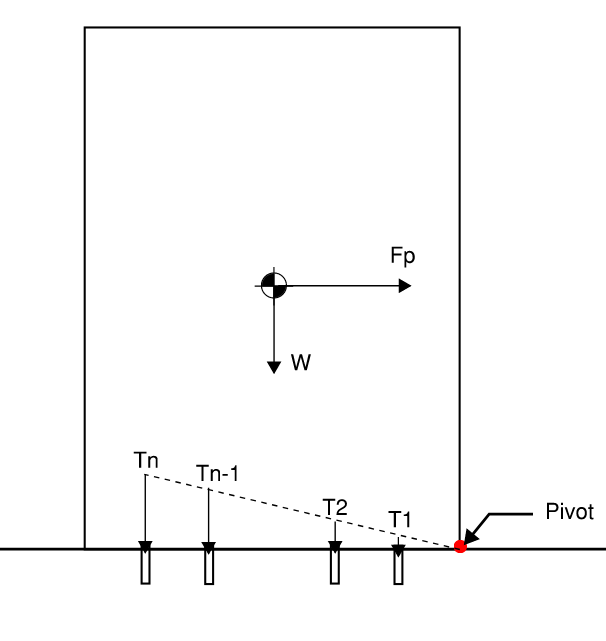
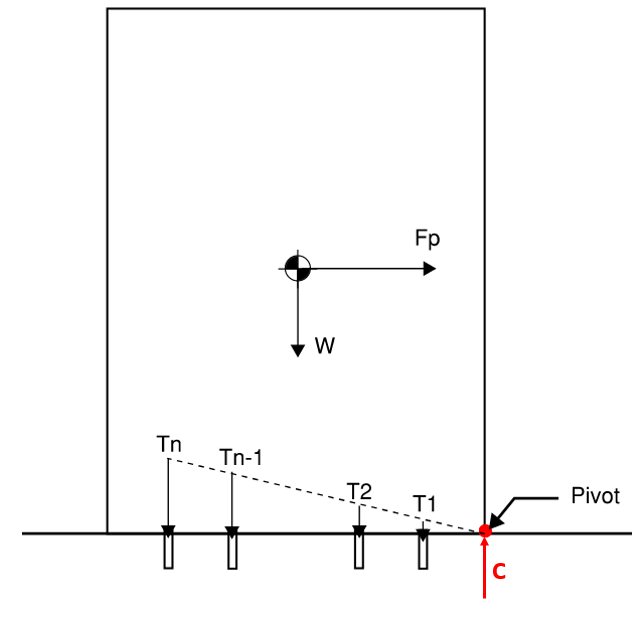
requirements + readme

Changed region(s): [[0.0, 0.0, 1.0, 0.9515], [0.4158, 0.3683, 0.7129, 0.5832]]

diff --git a/main_simple.py b/main_simple.py
@@ -16,6 +16,7 @@ fig = eza.plotter.preview(AHU4)
 # solve
 AHU4.solve(on_stilt=True)
 fig3 = eza.plotter.plot_equipment(AHU4)
+fig3.savefig("simple.png")
 
 # export data
 # AHU4.export_data()

diff --git a/README.md b/README.md
@@ -2,17 +2,13 @@
   <br>
   <img src="https://raw.githubusercontent.com/wcfrobert/ezanchor/master/docs/logo.png" alt="logo" style="zoom:80%;" />
   <br>
-  EZAnchor - Nonstructural Component Anchorage
+  Nonstructural Component Anchorage Calculation
   <br>
 </h1>
-
 <p align="center">
-Determine maximum anchor tension and shear demand for all possible equipment overturning orientations.
+Determine anchor tension and shear envelope curve for all overturning orientations.
 </p>
 
-<div align="center">
-  <img src="https://raw.githubusercontent.com/wcfrobert/ezanchor/master/docs/stilt.gif" alt="demogif1" style="width: 100%;" />
-</div>
 
 <div align="center">
   <img src="https://raw.githubusercontent.com/wcfrobert/ezanchor/master/docs/pivot.gif" alt="demogif2" style="width: 100%;" />
@@ -21,18 +17,14 @@ Determine maximum anchor tension and shear demand for all possible equipment ove
 
 
 
-
 ## Introduction
 
-EZAnchor is a Python applet that performs nonstructural components seismic force (Fp) calculations per ASCE 7-16 Chapter 13, it then applies Fp in all possible directions (all 360 degrees) to determine the maximum shear and tension demand in the anchor group holding the equipment in place.
+EZAnchor is a Python applet that performs nonstructural components seismic force (Fp) calculations per ASCE 7-16 Chapter 13, it then applies Fp in all possible directions (all 360 degrees) to determine the maximum shear and tension in the anchors holding the equipment in place.
 
-<img src="https://raw.githubusercontent.com/wcfrobert/ezanchor/master/docs/FBD1.png" alt="FBD1" style="zoom:50%;" />
+<img src="https://raw.githubusercontent.com/wcfrobert/ezanchor/master/docs/FBD_COMBINED.png" alt="FBD" style="width:90%;" /> 
 
 
-
-<img src="https://raw.githubusercontent.com/wcfrobert/ezanchor/master/docs/FBD2.png" alt="FBD2" style="zoom:50%;" />
-
-The technical background for equipment overturning calculation is quite simple. If you make some simplifying assumptions, you just need some statics and free-body diagrams. What makes EZAnchor special is that it doesn't make many simplifications. See "Theoretical Background" section for more info.
+The technical background for equipment overturning calculation is quite simple. In most cases, some basic statics and free-body diagrams will get you an answer that is good enough. What makes EZAnchor special is that it doesn't make many simplifying assumptions. See "Theoretical Background" section for more info.
 
 * Can evaluate equipment with arbitrary number and arrangement of anchors
 * Can evaluate equipment overturning in all possible orientations
@@ -41,18 +33,23 @@ The technical background for equipment overturning calculation is quite simple. 
 * Can quickly switch between "Pivot Mode" or "Stilt Mode"
 * Quick and easy-to-use
 
-The impetus for this package came from a lengthy technical discussion at work. I wanted to resolve two questions that's been stuck in my mind for the past few months:
+The impetus for this package came from a lengthy technical discussion at work. I wanted to resolve two questions that's been gnawing at me for months:
 
-* Should overturning be evaluated in all possible orientations? Is it even worth the effort?
-	- I don't think so, at least for most practical cases. Nevertheless, you can if you wish with EZAnchor. For simple cases, you really don't gain much insight with all that extra effort. However, there are cases where I think the additional rigor could be justified. For instance if: a.) equipment is on feet or b.) irregular equipment shape (like a L or T).
+* Should overturning be evaluated in all possible orientations? Is it worth the effort?
+	- I don't think so, at least for most practical cases. For simple cases, you really don't gain all that much insight with the additional effort. Plus It's difficult to conceptualize how a rectangular equipment can overturn about a corner (say at 26 degrees...). However, there are cases where I think the additional rigor can be justified. For instance if
+	  - equipment is on feet
+	  - irregular equipment shape (like a L or T)
+	  - large plan eccentricity between center of mass (of equipment), and center of resisitance (of anchors) which could result in large torsion and shear amplification
+	- With EZAnchor, this barrier is essentially removed and you can evaluate all possible overturning orientations, for anchor group of arbitrary complexity, and get results in seconds. This was extremely time-consuming if not impossible to do by hand or spreadsheet.
 * Is it appropriate to use the classical mechanics equation even when an equipment is bearing on the floor?
-	- No, those equations are only valid if equipment is standing on feet. The results tend to be overly conservative. Furthermore, they should only be applied about the anchor group's principal axes of inertia. Meaning you'd have to use those Mohr's circle equations first.
+	- No, those equations are only valid if equipment is standing on feet because anchor is assumed to take compression (see the free-body diagrams above). If blindly applied, the results tend to be extremely conservative, not to mention erroneous from the outset. 
+	- Furthermore, even when they are appropriate, they are often incorrectly applied (when anchor group is not a rectangle) because linear combination of moments in two orthogonal directions MUST be about the anchor group's principal axes of inertia. Meaning you'd first have to 1.) find anchor group centroid and moment of inertias, 2.) use those Mohr's circle equations, 3.) rotate all coordinates to the principal axes, 4.) find new centroid and moment of inertia and do all calculation at this rotated geometry.
 
 The current standard of practice is to perform equipment anchorage calculations in the two most obvious orthogonal directions. However, ASCE 7-16 13.3.1.1 states that for "vertically cantilevered systems", Fp shall be assumed to act in **any** horizontal direction. Since all floor-mounted equipment can be considered "vertically cantilevered", many engineers and authority-having jurisdictions are pushing for finding the "critical angle" of overturning. I don't think this is trivial.
 
-In "Pivot Mode" where point of overturning is about the edge of an equipment, the tension demand at a particular anchor is NOT the linear combination of results from two arbitrarily selected basis (that can be conveniently added together). In "Stilt Mode", we must be cognizant of the fact that critical overturning orientation (where max tension occurs) usually does not align with the minimum principal axis of inertia (it's usually 20 to 45 degrees shifted from it).
+In "Pivot Mode" where point of overturning is about the edge of an equipment, the tension demand at a particular anchor is NOT the linear combination of results from two arbitrarily selected basis (that can be conveniently added together). In "Stilt Mode", we must be cognizant of the fact that critical overturning orientation (where max tension occurs) usually does not align with the minimum principal axis of inertia (it's usually 10 to 45 degrees shifted from it).
 
-**Disclaimer:** this package is meant for <u>personal or educational use only</u>. The results have NOT been thoroughly validated and the tool is not as robust as it could be; therefore, EZAnchor is NOT for commercial use of any kind!
+**Disclaimer:** this package is meant for <u>personal or educational purpose only</u>. The results have NOT been thoroughly validated and the tool is not as robust as it could be; therefore, EZAnchor is NOT for commercial use of any kind!
 
 
 
@@ -366,6 +363,8 @@ Note that if {Equipment.name}_run_results folder already exists, EZAnchor will c
 
 ### Seismic Force (ASCE 7-16 Chapter 13)
 
+### Anchor Group Geometric Properties
+
 ### Pivot Mode: Tension Demand
 
 ### Stilt Mode: Tension Demand
@@ -390,8 +389,6 @@ Note that if {Equipment.name}_run_results folder already exists, EZAnchor will c
   * Sign of moment follows the right-hand rule. Mz is positive counter-clockwise
   * Compression is negative (-), tension is positive (+)
 * EZAnchor is agnostic when it comes to unit. Please ensure your input is consistent. I prefer to use lbs and inches
-
-
 
 
 
